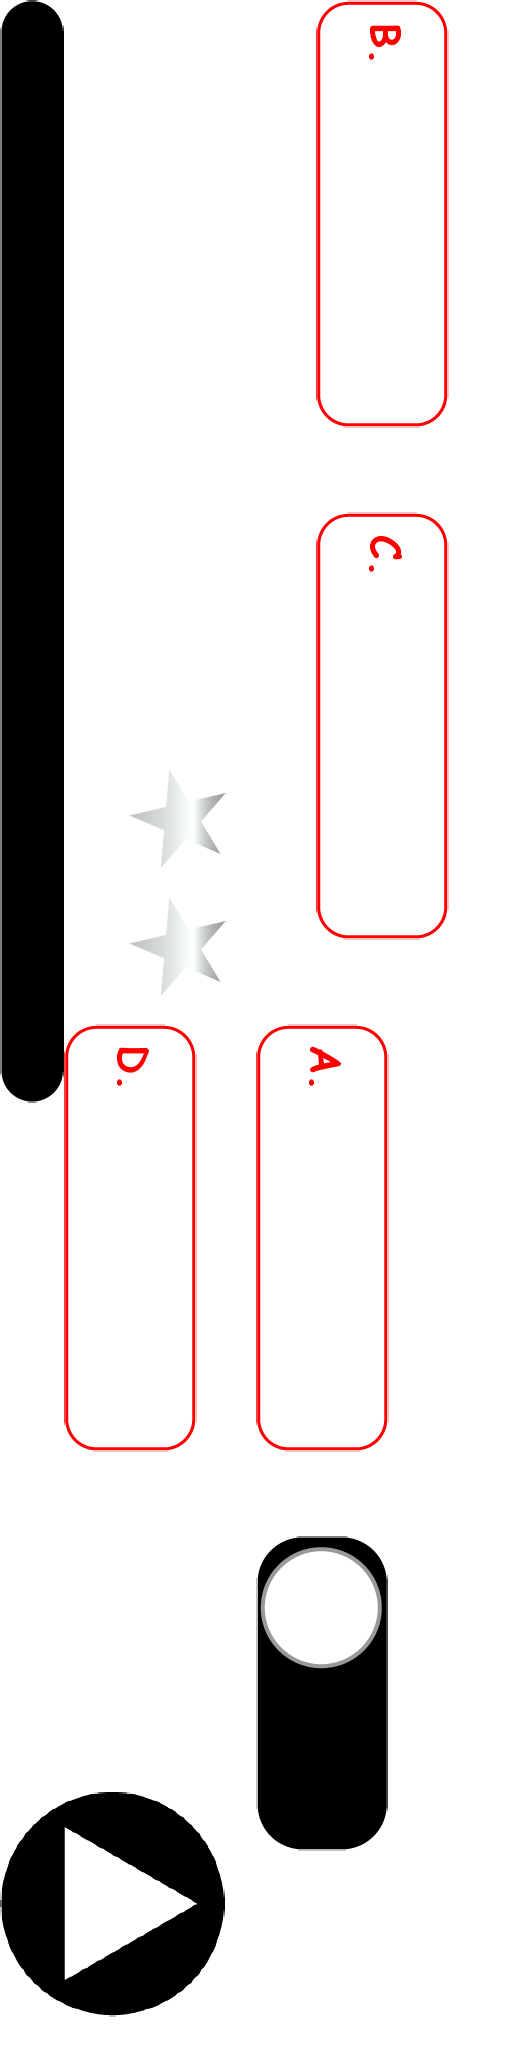
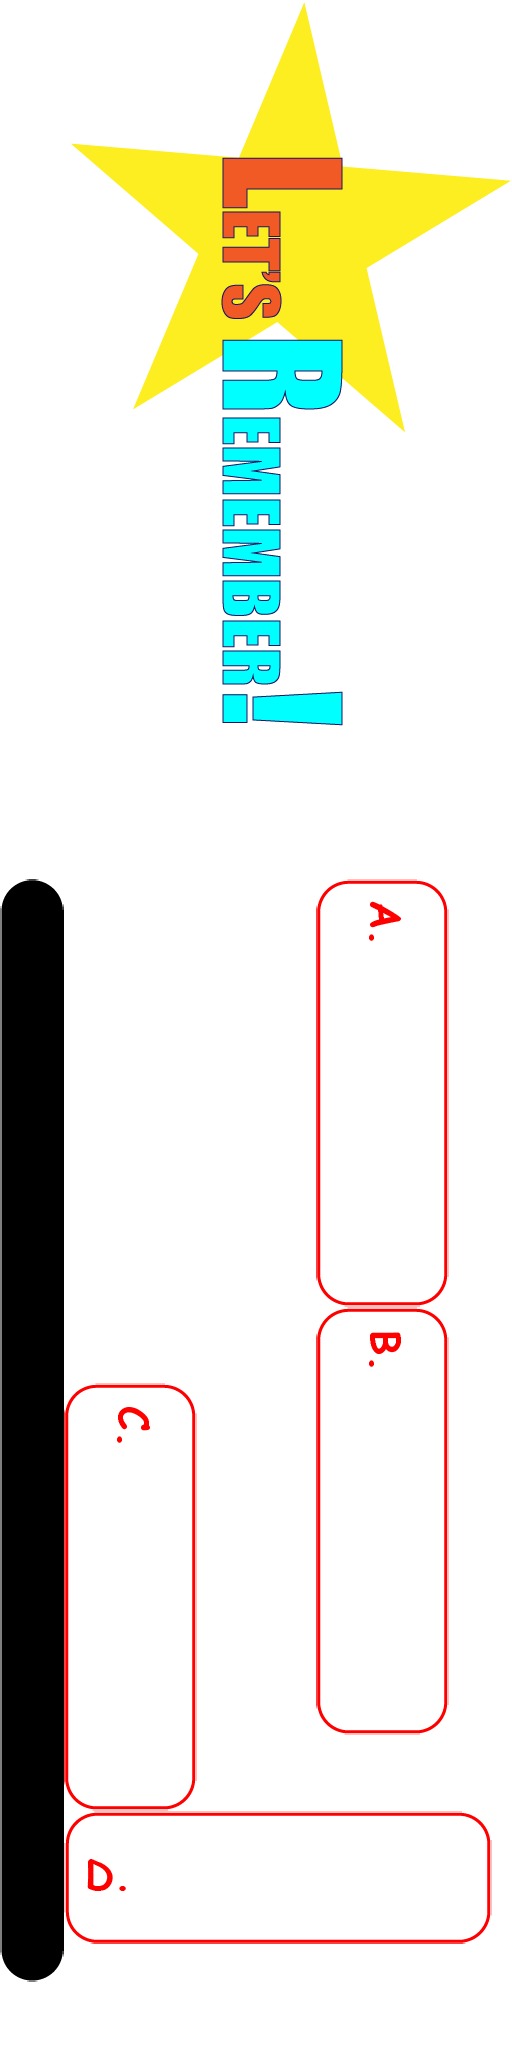
Yıldızlar eklendi

diff --git a/scripts/c3runtime.js b/scripts/c3runtime.js
@@ -1306,6 +1306,11 @@ const C3=self.C3,C3X=self.C3X,IBehaviorInstance=self.IBehaviorInstance,Ease=self
 {const a=self.C3;a.Behaviors.Timer=class extends a.SDKBehaviorBase{constructor(e){super(e)}Release(){super.Release()}}}{const d=self.C3;d.Behaviors.Timer.Type=class extends d.SDKBehaviorTypeBase{constructor(e){super(e)}Release(){super.Release()}OnCreate(){}}}{const g=self.C3,h=self.C3X,i=self.IBehaviorInstance,j=(g.Behaviors.Timer.SingleTimer=class{constructor(e,t,i,s){this._current=g.New(g.KahanSum),this._current.Set(e||0),this._total=g.New(g.KahanSum),this._total.Set(t||0),this._duration=i||0,this._isRegular=!!s,this._isPaused=!1}GetCurrentTime(){return this._current.Get()}GetTotalTime(){return this._total.Get()}GetDuration(){return this._duration}SetPaused(e){this._isPaused=!!e}IsPaused(){return this._isPaused}Add(e){this._current.Add(e),this._total.Add(e)}HasFinished(){return this._current.Get()>=this._duration}Update(){if(this.HasFinished()){if(!this._isRegular)return!0;this._current.Subtract(this._duration)}return!1}SaveToJson(){return{"c":this._current.Get(),"t":this._total.Get(),"d":this._duration,"r":this._isRegular,"p":this._isPaused}}LoadFromJson(e){this._current.Set(e["c"]),this._total.Set(e["t"]),this._duration=e["d"],this._isRegular=!!e["r"],this._isPaused=!!e["p"]}},g.Behaviors.Timer.Instance=class extends g.SDKBehaviorInstanceBase{constructor(e,t){super(e),this._timers=new Map}Release(){this._timers.clear(),super.Release()}_StartTimer(e,t,i){const s=new g.Behaviors.Timer.SingleTimer(0,0,e,i);this._timers.set(t.toLowerCase(),s),this._UpdateTickState()}_StopTimer(e){this._timers.delete(e.toLowerCase()),this._UpdateTickState()}_StopAllTimers(){this._timers.clear(),this._UpdateTickState()}_IsTimerRunning(e){return this._timers.has(e.toLowerCase())}_GetTimerCurrentTime(e){const t=this._timers.get(e.toLowerCase());return t?t.GetCurrentTime():0}_GetTimerTotalTime(e){const t=this._timers.get(e.toLowerCase());return t?t.GetTotalTime():0}_GetTimerDuration(e){const t=this._timers.get(e.toLowerCase());return t?t.GetDuration():0}_HasTimerFinished(e){const t=this._timers.get(e.toLowerCase());return!!t&&t.HasFinished()}_SetTimerPaused(e,t){const i=this._timers.get(e.toLowerCase());i&&i.SetPaused(t)}_IsTimerPaused(e){const t=this._timers.get(e.toLowerCase());return!!t&&t.IsPaused()}_SetAllTimersPaused(e){for(const t of this._timers.values())t.SetPaused(e)}_UpdateTickState(){0<this._timers.size?(this._StartTicking(),this._StartTicking2()):(this._StopTicking(),this._StopTicking2())}SaveToJson(){const e={};for(const[t,i]of this._timers.entries())e[t]=i.SaveToJson();return e}LoadFromJson(e){this._timers.clear();for(const[t,i]of Object.entries(e)){const s=new g.Behaviors.Timer.SingleTimer;s.LoadFromJson(i),this._timers.set(t,s)}this._UpdateTickState()}Tick(){const e=this._runtime.GetDt(this._inst);for(const[t,i]of this._timers)i.IsPaused()||(i.Add(e),i.HasFinished()&&this.DispatchScriptEvent("timer",!1,{tag:t}))}Tick2(){for(const[e,t]of this._timers.entries()){const i=t.Update();i&&this._timers.delete(e)}}GetDebuggerProperties(){return[{title:"behaviors.timer.debugger.timers",properties:[...this._timers.entries()].map(e=>({name:"$"+e[0],value:Math.round(10*e[1].GetCurrentTime())/10+" / "+Math.round(10*e[1].GetDuration())/10}))}]}GetScriptInterfaceClass(){return self.ITimerBehaviorInstance}},new WeakMap),k=["once","regular"];self.ITimerBehaviorInstance=class extends i{constructor(){super(),j.set(this,i._GetInitInst().GetSdkInstance())}startTimer(e,t,i="once"){h.RequireFiniteNumber(e),h.RequireString(t);const s=k.indexOf(i);if(-1===s)throw new Error("invalid type");j.get(this)._StartTimer(e,t,1===s)}setTimerPaused(e,t){h.RequireString(e),j.get(this)._SetTimerPaused(e,!!t)}setAllTimersPaused(e){j.get(this)._SetAllTimersPaused(!!e)}stopTimer(e){h.RequireString(e),j.get(this)._StopTimer(e)}stopAllTimers(){j.get(this)._StopAllTimers()}isTimerRunning(e){return h.RequireString(e),j.get(this)._IsTimerRunning(e)}isTimerPaused(e){return h.RequireString(e),j.get(this)._IsTimerPaused(e)}getCurrentTime(e){return h.RequireString(e),j.get(this)._GetTimerCurrentTime(e)}getTotalTime(e){return h.RequireString(e),j.get(this)._GetTimerTotalTime(e)}getDuration(e){return h.RequireString(e),j.get(this)._GetTimerDuration(e)}hasFinished(e){return h.RequireString(e),j.get(this)._HasTimerFinished(e)}}}{const sa=self.C3;sa.Behaviors.Timer.Cnds={OnTimer(e){return this._HasTimerFinished(e)},IsTimerRunning(e){return this._IsTimerRunning(e)},IsTimerPaused(e){return this._IsTimerPaused(e)}}}{const wa=self.C3;wa.Behaviors.Timer.Acts={StartTimer(e,t,i){this._StartTimer(e,i,1===t)},StopTimer(e){this._StopTimer(e)},StopAllTimers(){this._StopAllTimers()},PauseResumeTimer(e,t){this._SetTimerPaused(e,0===t)},PauseResumeAllTimers(e){this._SetAllTimersPaused(0===e)}}}{const Ea=self.C3;Ea.Behaviors.Timer.Exps={CurrentTime(e){return this._GetTimerCurrentTime(e)},TotalTime(e){return this._GetTimerTotalTime(e)},Duration(e){return this._GetTimerDuration(e)}}}
 }
 
+// scripts/behaviors/Sin/c3runtime/runtime.js
+{
+{const a=self.C3;a.Behaviors.Sin=class extends a.SDKBehaviorBase{constructor(e){super(e)}Release(){super.Release()}}}{const d=self.C3;d.Behaviors.Sin.Type=class extends d.SDKBehaviorTypeBase{constructor(e){super(e)}Release(){super.Release()}OnCreate(){}}}{const g=self.C3,h=self.C3X,i=self.IBehaviorInstance,j=0,k=1,l=2,m=3,n=4,o=5,p=6,q=7,r=8,s=0,t=1,u=2,v=3,w=4,x=5,y=6,z=7,A=8,B=9,C=0,D=1,E=2,F=3,G=4,H=2*Math.PI,I=Math.PI/2,J=3*Math.PI/2,K=[0,1,8,3,4,2,5,6,9,7],L=(g.Behaviors.Sin.Instance=class extends g.SDKBehaviorInstanceBase{constructor(e,t){super(e),this._i=0,this._movement=0,this._wave=0,this._period=0,this._mag=0,this._isEnabled=!0,this._basePeriod=0,this._basePeriodOffset=0,this._baseMag=0,this._periodRandom=0,this._periodOffsetRandom=0,this._magnitudeRandom=0,this._initialValue=0,this._initialValue2=0,this._lastKnownValue=0,this._lastKnownValue2=0,this._ratio=0,t&&(this._movement=K[t[j]],this._wave=t[k],this._periodRandom=this._runtime.Random()*t[m],this._basePeriod=t[l],this._period=t[l],this._period+=this._periodRandom,this._basePeriodOffset=t[n],0!==this._period&&(this._periodOffsetRandom=this._runtime.Random()*t[o],this._i=t[n]/this._period*H,this._i+=this._periodOffsetRandom/this._period*H),this._magnitudeRandom=this._runtime.Random()*t[q],this._baseMag=t[p],this._mag=t[p],this._mag+=this._magnitudeRandom,this._isEnabled=!!t[r]),this._movement===x&&(this._mag=g.toRadians(this._mag)),this.Init(),this._isEnabled&&this._StartTicking()}Release(){super.Release()}SaveToJson(){return{"i":this._i,"e":this._isEnabled,"mv":this._movement,"w":this._wave,"p":this._period,"mag":this._mag,"iv":this._initialValue,"iv2":this._initialValue2,"r":this._ratio,"lkv":this._lastKnownValue,"lkv2":this._lastKnownValue2}}LoadFromJson(e){this._i=e["i"],this._SetEnabled(e["e"]),this._movement=e["mv"],this._wave=e["w"],this._period=e["p"],this._mag=e["mag"],this._initialValue=e["iv"],this._initialValue2=e["iv2"],this._ratio=e["r"],this._lastKnownValue=e["lkv"],this._lastKnownValue2=e["lkv2"]}Init(){const e=this._inst.GetWorldInfo();switch(this._movement){case s:this._initialValue=e.GetX();break;case t:this._initialValue=e.GetY();break;case u:this._initialValue=e.GetWidth(),this._ratio=e.GetHeight()/e.GetWidth();break;case v:this._initialValue=e.GetWidth();break;case w:this._initialValue=e.GetHeight();break;case x:this._initialValue=e.GetAngle();break;case y:this._initialValue=e.GetOpacity();break;case z:this._initialValue=0;break;case A:this._initialValue=e.GetX(),this._initialValue2=e.GetY();break;case B:this._initialValue=e.GetZElevation()}this._lastKnownValue=this._initialValue,this._lastKnownValue2=this._initialValue2}WaveFunc(e){switch(e%=H,this._wave){case C:return Math.sin(e);case D:return e<=I?e/I:e<=J?1-2*(e-I)/Math.PI:(e-J)/I-1;case E:return 2*e/H-1;case F:return-2*e/H+1;case G:return e<Math.PI?-1:1}return 0}Tick(){const e=this._runtime.GetDt(this._inst);this._isEnabled&&0!==e&&(0===this._period?this._i=0:this._i=(this._i+e/this._period*H)%H,this._UpdateFromPhase())}_UpdateFromPhase(){const e=this._inst.GetWorldInfo();switch(this._movement){case s:e.GetX()!==this._lastKnownValue&&(this._initialValue+=e.GetX()-this._lastKnownValue),e.SetX(this._initialValue+this.WaveFunc(this._i)*this._mag),this._lastKnownValue=e.GetX();break;case t:e.GetY()!==this._lastKnownValue&&(this._initialValue+=e.GetY()-this._lastKnownValue),e.SetY(this._initialValue+this.WaveFunc(this._i)*this._mag),this._lastKnownValue=e.GetY();break;case u:e.SetWidth(this._initialValue+this.WaveFunc(this._i)*this._mag),e.SetHeight(e.GetWidth()*this._ratio);break;case v:e.SetWidth(this._initialValue+this.WaveFunc(this._i)*this._mag);break;case w:e.SetHeight(this._initialValue+this.WaveFunc(this._i)*this._mag);break;case x:e.GetAngle()!==this._lastKnownValue&&(this._initialValue=g.clampAngle(this._initialValue+(e.GetAngle()-this._lastKnownValue))),e.SetAngle(this._initialValue+this.WaveFunc(this._i)*this._mag),this._lastKnownValue=e.GetAngle();break;case y:e.SetOpacity(this._initialValue+this.WaveFunc(this._i)*this._mag/100);break;case A:e.GetX()!==this._lastKnownValue&&(this._initialValue+=e.GetX()-this._lastKnownValue),e.GetY()!==this._lastKnownValue2&&(this._initialValue2+=e.GetY()-this._lastKnownValue2),e.SetX(this._initialValue+Math.cos(e.GetAngle())*this.WaveFunc(this._i)*this._mag),e.SetY(this._initialValue2+Math.sin(e.GetAngle())*this.WaveFunc(this._i)*this._mag),this._lastKnownValue=e.GetX(),this._lastKnownValue2=e.GetY();break;case B:e.SetZElevation(this._initialValue+this.WaveFunc(this._i)*this._mag)}e.SetBboxChanged()}_OnSpriteFrameChanged(e,t){}_SetPeriod(e){this._period=e}_GetPeriod(){return this._period}_SetMagnitude(e){this._mag=e}_SetMagnitude_ConvertAngle(e){5===this._movement&&(e=g.toRadians(e)),this._SetMagnitude(e)}_GetMagnitude(){return this._mag}_GetMagnitude_ConvertAngle(){let e=this._GetMagnitude();return e=5===this._movement?g.toDegrees(e):e}_SetMovement(e){5===this._movement&&5!==e&&(this._mag=g.toDegrees(this._mag)),this._movement=e,this.Init()}_GetMovement(){return this._movement}_SetWave(e){this._wave=e}_GetWave(){return this._wave}_SetPhase(e){this._i=g.clamp(e,0,2*Math.PI),this._UpdateFromPhase()}_GetPhase(){return this._i}_SetEnabled(e){this._isEnabled=!!e,this._isEnabled?this._StartTicking():this._StopTicking()}_IsEnabled(){return this._isEnabled}GetPropertyValueByIndex(e){switch(e){case j:return this._movement;case k:return this._wave;case l:return this._basePeriod;case p:return this._baseMag;case r:return this._isEnabled}}SetPropertyValueByIndex(e,t){switch(e){case j:this._movement=K[t],this.Init();break;case k:this._wave=t;break;case l:this._basePeriod=t,this._period=this._basePeriod+this._periodRandom,this._isEnabled||(0!==this._period?(this._i=this._basePeriodOffset/this._period*H,this._i+=this._periodOffsetRandom/this._period*H):this._i=0);break;case p:this._baseMag=t,this._mag=this._baseMag+this._magnitudeRandom,this._movement===x&&(this._mag=g.toRadians(this._mag));break;case r:this._isEnabled=!!t}}GetDebuggerProperties(){const e="behaviors.sin";return[{title:"$"+this.GetBehaviorType().GetName(),properties:[{name:e+".properties.enabled.name",value:this._IsEnabled(),onedit:e=>this._SetEnabled(e)},{name:e+".properties.period.name",value:this._GetPeriod(),onedit:e=>this._SetPeriod(e)},{name:e+".properties.magnitude.name",value:this._GetMagnitude_ConvertAngle(),onedit:e=>this._SetMagnitude_ConvertAngle(e)},{name:e+".debugger.value",value:this.WaveFunc(this._GetPhase())*this._GetMagnitude_ConvertAngle()}]}]}GetScriptInterfaceClass(){return self.ISineBehaviorInstance}},new WeakMap),M=["horizontal","vertical","size","width","height","angle","opacity","value-only","forwards-backwards","z-elevation"],N=["sine","triangle","sawtooth","reverse-sawtooth","square"];self.ISineBehaviorInstance=class extends i{constructor(){super(),L.set(this,i._GetInitInst().GetSdkInstance())}set period(e){h.RequireFiniteNumber(e),L.get(this)._SetPeriod(e)}get period(){return L.get(this)._GetPeriod()}set magnitude(e){h.RequireFiniteNumber(e),L.get(this)._SetMagnitude(e)}get magnitude(){return L.get(this)._GetMagnitude()}set phase(e){L.get(this)._SetPhase(e)}get phase(){return L.get(this)._GetPhase()}set movement(e){h.RequireString(e);const t=M.indexOf(e);if(-1===t)throw new Error("invalid movement");L.get(this)._SetMovement(t)}get movement(){return M[L.get(this)._GetMovement()]}set wave(e){h.RequireString(e);const t=N.indexOf(e);if(-1===t)throw new Error("invalid wave");L.get(this)._SetWave(t)}get wave(){return N[L.get(this)._GetWave()]}get value(){const e=L.get(this);return e.WaveFunc(e._GetPhase())*e._GetMagnitude()}updateInitialState(){L.get(this).Init()}set isEnabled(e){L.get(this)._SetEnabled(!!e)}get isEnabled(){return L.get(this)._IsEnabled()}}}{const va=self.C3;va.Behaviors.Sin.Cnds={IsEnabled(){return this._IsEnabled()},CompareMovement(e){return this._GetMovement()===e},ComparePeriod(e,t){return va.compare(this._GetPeriod(),e,t)},CompareMagnitude(e,t){return va.compare(this._GetMagnitude_ConvertAngle(),e,t)},CompareWave(e){return this._GetWave()===e}}}{const Ca=self.C3;Ca.Behaviors.Sin.Acts={SetEnabled(e){this._SetEnabled(0!==e)},SetPeriod(e){this._SetPeriod(e)},SetMagnitude(e){this._SetMagnitude_ConvertAngle(e)},SetMovement(e){this._SetMovement(e)},SetWave(e){this._wave=e},SetPhase(e){const t=2*Math.PI;this._SetPhase(e*t%t)},UpdateInitialState(){this.Init()}}}{const Ka=self.C3;Ka.Behaviors.Sin.Exps={CyclePosition(){return this._GetPhase()/(2*Math.PI)},Period(){return this._GetPeriod()},Magnitude(){return this._GetMagnitude_ConvertAngle()},Value(){return this.WaveFunc(this._GetPhase())*this._GetMagnitude_ConvertAngle()}}}
+}
+
 // scripts/expTable.js
 {
 
@@ -1405,12 +1410,12 @@ function or(l, r)
 
 self.C3_ExpressionFuncs = [
 		() => 0,
-		() => "COLLECT THE STARS AND FEEL READY TO NEW SUBJECT",
-		() => 2,
+		() => "bilgi",
 		() => "",
 		() => 100,
 		() => 1,
 		() => 0.2,
+		() => 2,
 		() => 99,
 		() => 960,
 		() => 540,
@@ -1500,7 +1505,32 @@ self.C3_ExpressionFuncs = [
 		},
 		() => 0.3,
 		() => 2.1,
-		() => 2.2
+		() => 2.2,
+		() => "Animation 1",
+		() => "Animation 2",
+		() => 500,
+		p => {
+			const f0 = p._GetNode(0).GetBoundMethod();
+			return () => (f0() / 2.3);
+		},
+		p => {
+			const f0 = p._GetNode(0).GetBoundMethod();
+			const f1 = p._GetNode(1).GetBoundMethod();
+			return () => f0(f1(1));
+		},
+		p => {
+			const f0 = p._GetNode(0).GetBoundMethod();
+			return () => f0(0, 1);
+		},
+		() => 70,
+		p => {
+			const f0 = p._GetNode(0).GetBoundMethod();
+			return () => f0(50, 70);
+		},
+		p => {
+			const f0 = p._GetNode(0).GetBoundMethod();
+			return () => f0(10, 50);
+		}
 ];
 
 

diff --git a/scripts/objRefTable.js b/scripts/objRefTable.js
@@ -6,6 +6,7 @@ self.C3_GetObjectRefTable = function () {
 		C3.Behaviors.Flash,
 		C3.Plugins.TiledBg,
 		C3.Behaviors.Timer,
+		C3.Behaviors.Sin,
 		C3.Plugins.Touch,
 		C3.Plugins.Mouse,
 		C3.Plugins.Keyboard,
@@ -15,8 +16,7 @@ self.C3_GetObjectRefTable = function () {
 		C3.Plugins.Text,
 		C3.Plugins.System.Cnds.OnLayoutStart,
 		C3.Plugins.Sprite.Acts.SetOpacity,
-		C3.Plugins.Text.Acts.TypewriterText,
-		C3.Plugins.System.Acts.Wait,
+		C3.Plugins.System.Acts.SetLayerVisible,
 		C3.Behaviors.Tween.Acts.TweenOneProperty,
 		C3.Behaviors.Flash.Acts.Flash,
 		C3.Plugins.Touch.Cnds.OnTapGestureObject,
@@ -33,9 +33,11 @@ self.C3_GetObjectRefTable = function () {
 		C3.Plugins.Sprite.Acts.Destroy,
 		C3.Plugins.TiledBg.Acts.SetOpacity,
 		C3.Plugins.Text.Acts.SetOpacity,
+		C3.Plugins.System.Acts.Wait,
 		C3.Plugins.Sprite.Acts.LoadURL,
 		C3.Plugins.Arr.Exps.At,
 		C3.Plugins.Arr.Exps.Back,
+		C3.Plugins.Text.Acts.TypewriterText,
 		C3.Behaviors.Timer.Acts.StartTimer,
 		C3.Plugins.System.Cnds.ForEach,
 		C3.Plugins.System.Exps.loopindex,
@@ -55,12 +57,12 @@ self.C3_GetObjectRefTable = function () {
 		C3.Behaviors.Timer.Acts.StopTimer,
 		C3.Plugins.Sprite.Cnds.IsOverlapping,
 		C3.Plugins.Sprite.Acts.SetDefaultColor,
+		C3.Plugins.System.Acts.AddVar,
 		C3.Plugins.Sprite.Acts.Spawn,
 		C3.Plugins.Sprite.Acts.MoveToTop,
 		C3.Behaviors.Tween.Acts.TweenTwoProperties,
 		C3.Plugins.Sprite.Exps.X,
 		C3.Plugins.Sprite.Exps.Y,
-		C3.Plugins.System.Acts.AddVar,
 		C3.Plugins.System.Cnds.PickAll,
 		C3.Plugins.System.Cnds.EveryTick,
 		C3.Plugins.System.Cnds.CompareVar,
@@ -70,11 +72,18 @@ self.C3_GetObjectRefTable = function () {
 		C3.Plugins.System.Acts.SubVar,
 		C3.Plugins.Mouse.Cnds.IsOverObject,
 		C3.Plugins.Mouse.Acts.SetCursor,
+		C3.Plugins.Sprite.Acts.SetAnimFrame,
 		C3.Plugins.Browser.Cnds.IsFullscreen,
 		C3.Plugins.Browser.Acts.CancelFullScreen,
-		C3.Plugins.Sprite.Acts.SetAnimFrame,
+		C3.Plugins.Sprite.Acts.SetAnim,
 		C3.Plugins.Browser.Acts.RequestFullScreen,
-		C3.Plugins.Sprite.Cnds.CompareFrame
+		C3.Plugins.Sprite.Cnds.IsAnimPlaying,
+		C3.Plugins.System.Acts.CreateObject,
+		C3.Plugins.System.Exps.random,
+		C3.Plugins.System.Exps.viewportwidth,
+		C3.Plugins.System.Exps.viewportheight,
+		C3.Plugins.System.Exps.choose,
+		C3.Plugins.Sprite.Cnds.OnCreated
 	];
 };
 self.C3_JsPropNameTable = [
@@ -92,9 +101,21 @@ self.C3_JsPropNameTable = [
 	{sure_bar: 0},
 	{Timer: 0},
 	{sure_bar_bg: 0},
+	{emegigecenler: 0},
+	{howtoplay: 0},
+	{kaynakca: 0},
+	{gulumseyenyildiz: 0},
+	{Sine: 0},
+	{yildiz_kucuk: 0},
 	{btn_tamekran: 0},
 	{btn_ses: 0},
 	{btn_basla: 0},
+	{btn_anasayfa: 0},
+	{btn_bilgi: 0},
+	{btn_emegigecenler: 0},
+	{btn_kapat: 0},
+	{btn_kaynakca: 0},
+	{btn_replay: 0},
 	{Touch: 0},
 	{Mouse: 0},
 	{Keyboard: 0},
@@ -103,13 +124,17 @@ self.C3_JsPropNameTable = [
 	{sorular: 0},
 	{sorularSirasi: 0},
 	{Skor: 0},
-	{baslik: 0},
 	{soru: 0},
 	{secenekler_text: 0},
 	{sure: 0},
+	{txt_dogru: 0},
+	{txt_skor: 0},
+	{txt_toplamsoru: 0},
 	{ButonAilesi: 0},
+	{texts: 0},
 	{skor: 0},
-	{time_bar: 0}
+	{time_bar: 0},
+	{dogru: 0}
 ];
 
 self.InstanceType = {
@@ -124,9 +149,20 @@ self.InstanceType = {
 	soru_resimleri: class extends self.ISpriteInstance {},
 	sure_bar: class extends self.ITiledBackgroundInstance {},
 	sure_bar_bg: class extends self.ISpriteInstance {},
+	emegigecenler: class extends self.ISpriteInstance {},
+	howtoplay: class extends self.ISpriteInstance {},
+	kaynakca: class extends self.ISpriteInstance {},
+	gulumseyenyildiz: class extends self.ISpriteInstance {},
+	yildiz_kucuk: class extends self.ISpriteInstance {},
 	btn_tamekran: class extends self.ISpriteInstance {},
 	btn_ses: class extends self.ISpriteInstance {},
 	btn_basla: class extends self.ISpriteInstance {},
+	btn_anasayfa: class extends self.ISpriteInstance {},
+	btn_bilgi: class extends self.ISpriteInstance {},
+	btn_emegigecenler: class extends self.ISpriteInstance {},
+	btn_kapat: class extends self.ISpriteInstance {},
+	btn_kaynakca: class extends self.ISpriteInstance {},
+	btn_replay: class extends self.ISpriteInstance {},
 	Touch: class extends self.IInstance {},
 	Mouse: class extends self.IInstance {},
 	Keyboard: class extends self.IInstance {},
@@ -135,9 +171,12 @@ self.InstanceType = {
 	sorular: class extends self.IArrayInstance {},
 	sorularSirasi: class extends self.IArrayInstance {},
 	Skor: class extends self.ITextInstance {},
-	baslik: class extends self.ITextInstance {},
 	soru: class extends self.ITextInstance {},
 	secenekler_text: class extends self.ITextInstance {},
 	sure: class extends self.ITextInstance {},
-	ButonAilesi: class extends self.ISpriteInstance {}
+	txt_dogru: class extends self.ITextInstance {},
+	txt_skor: class extends self.ITextInstance {},
+	txt_toplamsoru: class extends self.ITextInstance {},
+	ButonAilesi: class extends self.ISpriteInstance {},
+	texts: class extends self.ITextInstance {}
 }
